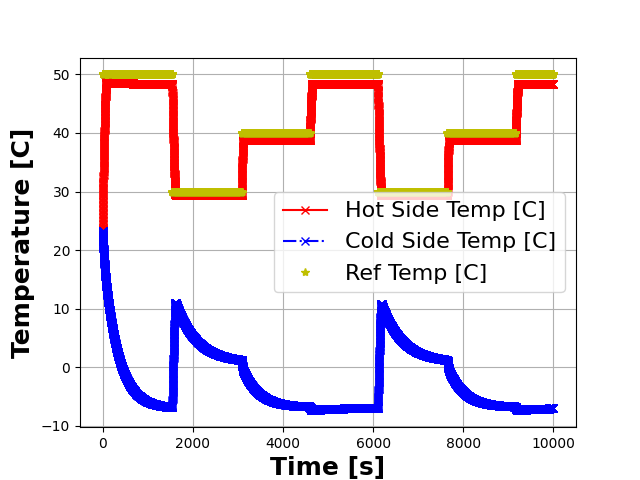
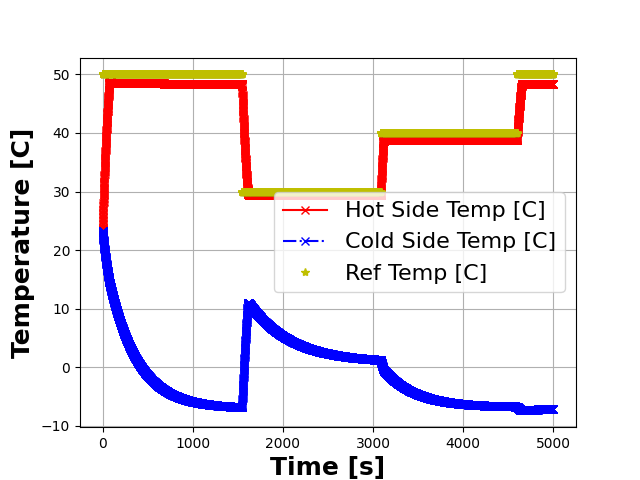
Got MLP working. Need to fix hot-cold side specification

diff --git a/bessel/bessel.py b/bessel/bessel.py
@@ -14,11 +14,17 @@ from PySpice.Spice.Netlist import Circuit
 from PySpice.Unit import u_V, u_A, u_Ohm, u_F, u_s
 import PySpice.Spice.NgSpice.Shared
 
+import torch
+from torch import nn
+from torch.optim import Adam, SGD
+
+from .neural_nets import MLP
+
 # Simulation Parameters
 
 TEMP_SENSOR_SAMPLES_PER_SEC = 1.00
 SIMULATION_TIMESTEPS_PER_SENSOR_SAMPLE = 2.00
-SIMULATION_TIME_IN_SEC = 10000.00
+SIMULATION_TIME_IN_SEC = 5000.00 # 10000.00
 ROUND_DIGITS = 3
 ERR_TOL = 0.15
 
@@ -104,6 +110,62 @@ class controller(ABC):
     def _controller_f(self, t, ref, sensor_dict):
         pass
 
+
+class neural_controller(controller):
+
+    def __init__(self,
+                 seqr,
+                 plate_select,
+                 input_units=3,
+                 hidden_units=5,
+                 bias=True,
+                 lrate=0.01):
+        adam = True
+        self.seqr = seqr
+        self.plate_select = plate_select
+        self.net = MLP(hidden_units=hidden_units, bias=bias)
+        if adam:
+            self.optimizer = Adam(self.net.parameters(),
+                                  lr=lrate,
+                                  weight_decay=1e-4)
+        else:
+            self.optimizer = SGD(self.net.parameters(),
+                                 lr=lrate,
+                                 weight_decay=1e-4,
+                                 momentum=0.9)
+        self.criterion = nn.MSELoss()
+        self.loss_ = []
+
+    def learn(self, T_hot, T_cold, T_ref):
+        x = torch.from_numpy(np.array([T_hot,
+                                       T_cold,
+                                       T_ref]).astype('f'))
+        self.t_ref = torch.tensor([T_ref], requires_grad=True)
+        self.z = torch.tensor([T_cold if self.plate_select == TECPlate.COLD_SIDE else T_hot], requires_grad=True)
+
+        self.optimizer.zero_grad()
+        yc = self.net(x)
+        # print(self.z.shape, self.t_ref.shape)
+        print("T_ref = {}, self.t_ref = {}, T_hot = {}, T_cold = {}".format(T_ref, self.t_ref, T_hot, T_cold))
+        loss = self.criterion(self.z, self.t_ref)
+        # loss = self.criterion(yc, self.v)
+        loss.backward()
+        self.optimizer.step()
+
+        # print("Target: %f, Pred: %f" % (self.v.item(), yc.item()))
+        # yc = yc.detach().cpu().numpy()[-1] @ u_V
+        self.loss_.append(loss.item())
+        print("yc = {}".format(yc))
+        return yc
+
+    def _controller_f(self, t, ref, sensor_dict):
+        yc = self.learn(sensor_dict["th"][-1], sensor_dict["tc"][-1], self.ref)
+        return yc.detach().cpu().numpy()[-1] @ u_V
+        # x = torch.from_numpy(np.array([sensor_dict["th"],
+        #                                sensor_dict["tc"],
+        #                                ref]).astype('f'))
+        # yc = self.net(x)
+        # return np.round(yc.detach().cpu().numpy()[-1], 2)[0]
 
 class bang_bang_controller(controller):
 
@@ -355,6 +417,9 @@ class tec_lib(PySpice.Spice.NgSpice.Shared.NgSpiceShared):
             self.tc_sensor_error = [abs(x) < ERR_TOL for x in self.tc_sensor_window]
 
     def send_data(self, actual_vector_values, number_of_vectors, ngspice_id):
+        print("t : {}, Th : {}, Tc : {}".format(actual_vector_values['time'].real,
+                                                round(K_to_C(actual_vector_values['V({})'.format(HOT_SIDE_NODE)].real), ROUND_DIGITS),
+                                                round(K_to_C(actual_vector_values['V({})'.format(COLD_SIDE_NODE)].real), ROUND_DIGITS)))
         if self.timestep_counter == SIMULATION_TIMESTEPS_PER_SENSOR_SAMPLE:
             self.th_sensor.append(
                 round(K_to_C(actual_vector_values['V({})'.format(HOT_SIDE_NODE)].real), ROUND_DIGITS))

diff --git a/tests/train_neural_controller.py b/tests/train_neural_controller.py
@@ -2,15 +2,16 @@ import numpy as np
 import matplotlib.pylab as plt
 from sklearn.model_selection import train_test_split
 
-from neural_controller import neural_controller
+from neural_nets import MLP
+from torch import nn
 
 
 if __name__ == '__main__':
     batch_size = 1
     epochs = 25
 
-    v, tc = np.load("results/volt_tc_characterization.npy").astype('f')
-    v, th = np.load("results/volt_th_characterization.npy").astype('f')
+    v, tc = np.load("results/op_point_voltage_volt_tc_characterization.npy").astype('f')
+    v, th = np.load("results/op_point_voltage_volt_th_characterization.npy").astype('f')
     size = min(len(tc), len(th))
     t_ref = np.linspace(0, 10, size).astype('f')
 
@@ -31,7 +32,14 @@ if __name__ == '__main__':
     loss_track, acc_track = [], []
     for e in range(epochs):
         for i in range(X_train.shape[0]):
-            nc.learn(X_train[i, 1], X_train[i, 0], X_train[i, 2], y_train[i])
+            x = torch.from_numpy(np.array([X_train[i, 1],
+                                           X_train[i, 0],
+                                           X_train[i, 2]]).astype('f'))
+            self.t_ref = torch.tensor([T_ref], requires_grad=True)
+            self.z = torch.tensor([T_hot], requires_grad=True)
+
+            self.optimizer.zero_grad()
+            yc = self.net(x)
         if e % 1 == 0:
             acc = 0.0
             for j in range(X_test.shape[0]):

diff --git a/bessel/neural_nets.py b/bessel/neural_nets.py
@@ -1,0 +1,36 @@
+import torch
+from torch import nn
+from torch.optim import Adam, SGD
+
+class MLP(nn.Module):
+    def __init__(self, input_units=3, hidden_units=4, bias=True):
+        super(MLP, self).__init__()
+        self.bias = bias
+
+        self.fc1 = nn.Linear(input_units, hidden_units, bias=self.bias)
+        self.fc2 = nn.Linear(hidden_units, 1, bias=self.bias)
+
+        self.relu = nn.ReLU()
+        self.sigmoid = nn.Sigmoid()
+        self.tanh = nn.Tanh()
+
+        self.init(init_method="uniform")
+
+    def init(self, init_method="uniform"):
+        if init_method == "xavier":
+            nn.init.xavier_uniform_(self.fc1.weight.data,
+                                    gain=nn.init.calculate_gain('relu'))
+            nn.init.xavier_uniform_(self.fc2.weight.data,
+                                    gain=nn.init.calculate_gain('relu'))
+        else:
+            nn.init.uniform_(self.fc1.weight.data, a=-.4, b=.4)
+            nn.init.uniform_(self.fc2.weight.data, a=-.4, b=.4)
+        # if self.bias:
+        #     nn.init.xavier_uniform_(self.fc1.bias.data)
+        #     nn.init.xavier_uniform_(self.fc2.bias.data)
+
+    def forward(self, x):
+        """ forward """
+        out = self.relu(self.fc1(x))
+        out = 30.00 * self.tanh(self.fc2(out))
+        return out

diff --git a/tests/mlp_hot.py b/tests/mlp_hot.py
@@ -1,0 +1,27 @@
+#!/usr/bin/env python3
+
+import matplotlib.pyplot as plt
+import os
+import bessel
+import time
+import numpy
+
+TEST_NAME = "mlp_hot"
+
+if __name__ == "__main__":
+    if not os.path.exists('./results/'):
+        os.mkdirs('./results/')
+    pC = bessel.plant_circuit("Detector", None, bessel.Signal.VOLTAGE, plate_select = bessel.TECPlate.COLD_SIDE)
+    cbs = bessel.circular_buffer_sequencer([50.00, 30.00, 40.00], pC.get_ncs())
+    nc = bessel.neural_controller(cbs, hidden_units = 6, lrate = 0.5, plate_select = bessel.TECPlate.COLD_SIDE)
+    pC.set_controller_f(nc.controller_f)
+    pC.run_sim()
+    pC.plot_th_tc(bessel.IndVar.TIME, plot_driver = True, include_ref = True)
+    plt.savefig('./figs/{}'.format(TEST_NAME))
+    data = numpy.array([pC.get_t(), pC.get_th_sensor()])
+    numpy.save('./results/{}_time_th_sensor_curr'.format(TEST_NAME), data)
+    data = numpy.array([pC.get_t(), pC.get_tc_sensor()])
+    numpy.save('./results/{}_time_tc_sensor_curr'.format(TEST_NAME), data)
+    data = numpy.array([pC.get_t(), pC.get_v_arr()])
+    numpy.save('./results/{}_time_v_curr'.format(TEST_NAME), data)
+    plt.show()

diff --git a/tests/mlp_cold.py b/tests/mlp_cold.py
@@ -1,0 +1,27 @@
+#!/usr/bin/env python3
+
+import matplotlib.pyplot as plt
+import os
+import bessel
+import time
+import numpy
+
+TEST_NAME = "mlp_cold"
+
+if __name__ == "__main__":
+    if not os.path.exists('./results/'):
+        os.mkdirs('./results/')
+    pC = bessel.plant_circuit("Detector", None, bessel.Signal.VOLTAGE)
+    cbs = bessel.circular_buffer_sequencer([50.00, 30.00, 40.00], pC.get_ncs())
+    pidc = bessel.pid_controller(cbs, -30.00, -0.0007, -0.10, bessel.TECPlate.COLD_SIDE)
+    pC.set_controller_f(pidc.controller_f)
+    pC.run_sim()
+    pC.plot_th_tc(bessel.IndVar.TIME, plot_driver = False, include_ref = True)
+    plt.savefig('./figs/{}'.format(TEST_NAME))
+    data = numpy.array([pC.get_t(), pC.get_th_sensor()])
+    numpy.save('./results/{}_time_th_sensor_curr'.format(TEST_NAME), data)
+    data = numpy.array([pC.get_t(), pC.get_tc_sensor()])
+    numpy.save('./results/{}_time_tc_sensor_curr'.format(TEST_NAME), data)
+    data = numpy.array([pC.get_t(), pC.get_v_arr()])
+    numpy.save('./results/{}_time_v_curr'.format(TEST_NAME), data)
+    plt.show()
